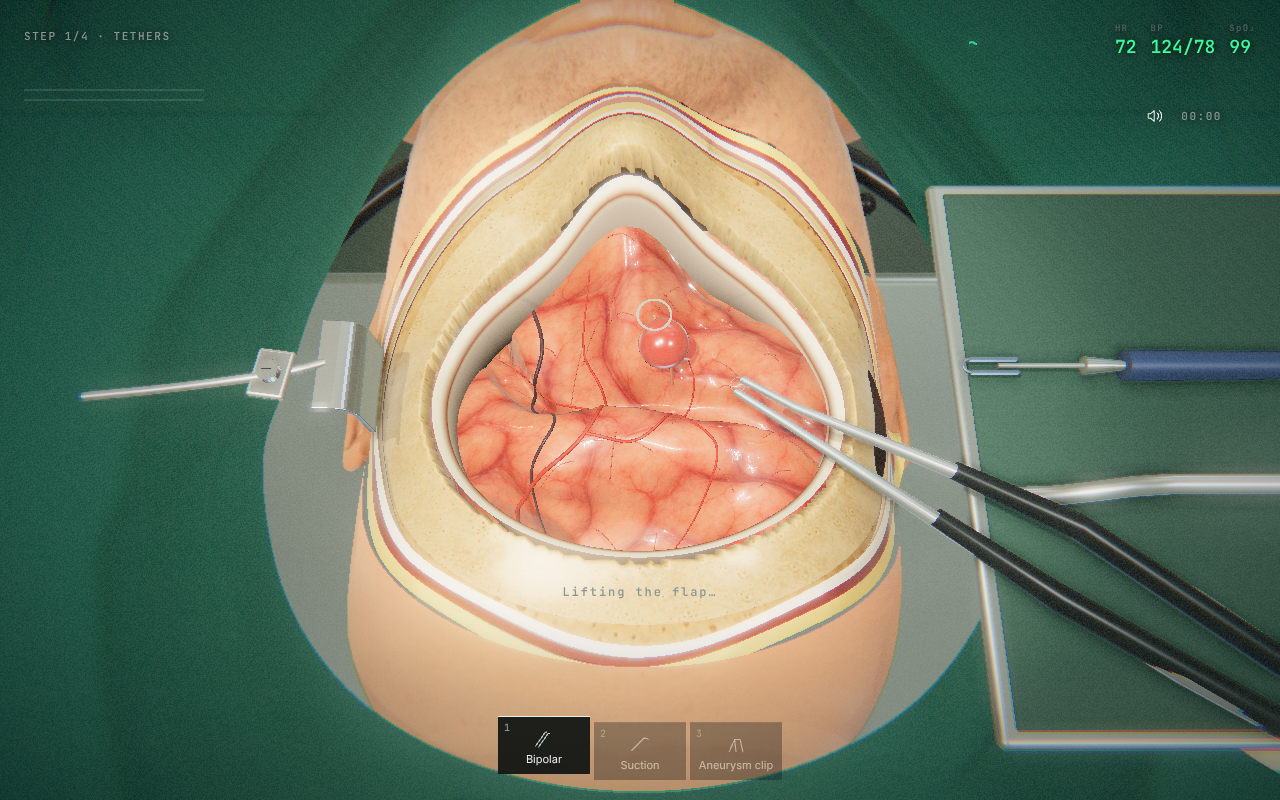
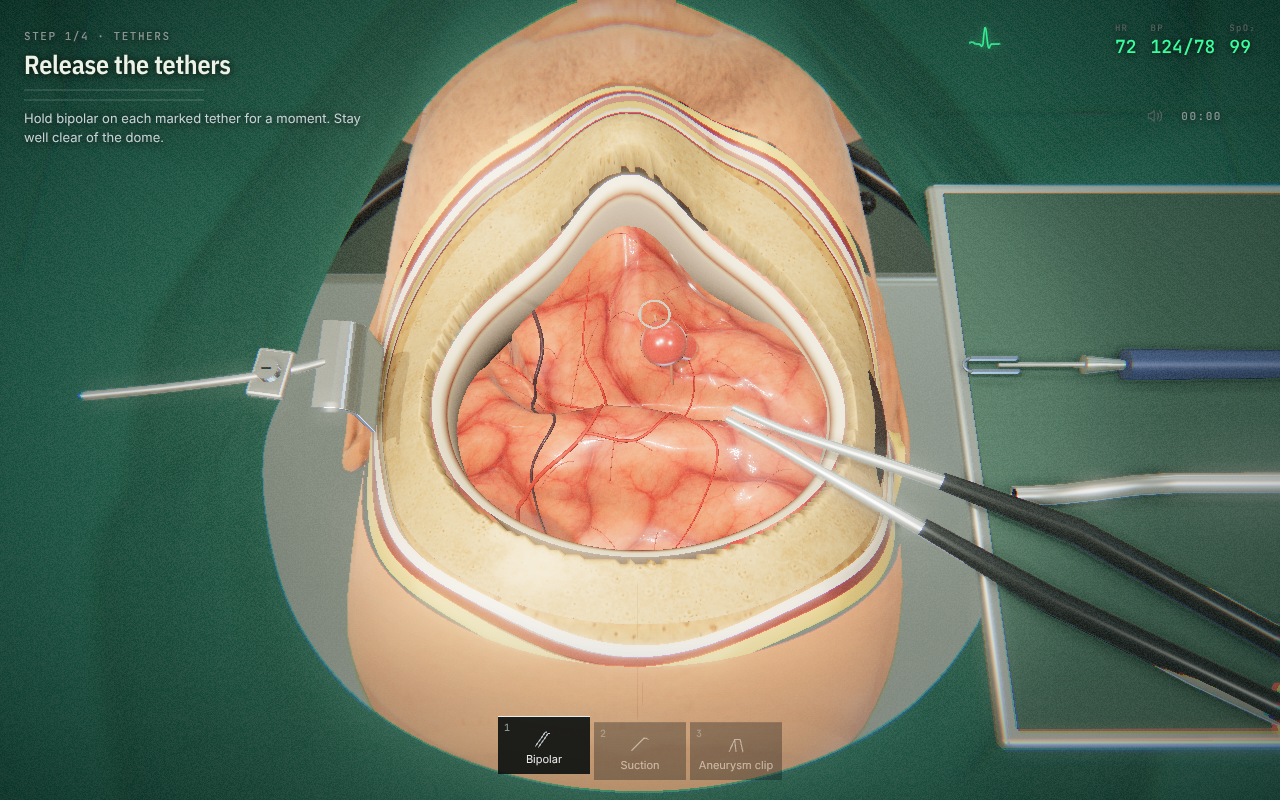
Surface-conforming blood pool, drier bone, larger drape, bigger skull grid
Claude-Session: https://claude.ai/code/session_01KH8wVLk59Yy76nRwxWbc5r

diff --git a/src/game/aneurysm.ts b/src/game/aneurysm.ts
@@ -101,20 +101,60 @@ export function buildAneurysm(scene: THREE.Scene, surface: Surface): AneurysmObj
   axisLine.computeLineDistances();
   axisLine.renderOrder = 24;
   group.add(axisLine);
+  // The pool follows the cortex: every vertex is lowered onto the surface so a ridge
+  // cannot cut a wedge out of it.
+  const RINGS = 9,
+    SEG = 44;
+  const poolGeo = new THREE.BufferGeometry();
+  poolGeo.setAttribute("position", new THREE.BufferAttribute(new Float32Array((RINGS * SEG + 1) * 3), 3));
+  const poolIndex: number[] = [];
+  for (let i = 0; i < SEG; i++) {
+    poolIndex.push(0, 1 + i, 1 + ((i + 1) % SEG));
+    for (let r = 0; r < RINGS - 1; r++) {
+      const a = 1 + r * SEG + i,
+        b = 1 + r * SEG + ((i + 1) % SEG),
+        c = a + SEG,
+        d = b + SEG;
+      poolIndex.push(a, c, b, b, c, d);
+    }
+  }
+  poolGeo.setIndex(poolIndex);
   const pool = new THREE.Mesh(
-    new THREE.CircleGeometry(1, 40),
+    poolGeo,
     new THREE.MeshPhysicalMaterial({
-      color: 0x3a0407,
-      roughness: 0.5,
-      clearcoat: 0,
-      envMapIntensity: 0.05,
+      color: 0x4a0508,
+      roughness: 0.3,
+      clearcoat: 0.5,
+      clearcoatRoughness: 0.25,
+      envMapIntensity: 0.12,
       transparent: true,
       opacity: 0.97,
       polygonOffset: true,
       polygonOffsetFactor: -4,
       depthWrite: false,
+      side: THREE.DoubleSide,
     }),
   );
+  pool.frustumCulled = false;
+  let poolKey = "";
+  function reshapePool(cx: number, cy: number, rx: number, ry: number) {
+    const key = `${cx.toFixed(3)}|${cy.toFixed(3)}|${rx.toFixed(2)}|${ry.toFixed(2)}`;
+    if (key === poolKey) return;
+    poolKey = key;
+    const pos = poolGeo.getAttribute("position") as THREE.BufferAttribute;
+    pos.setXYZ(0, cx, cy, surface(cx, cy) + 0.03);
+    for (let r = 0; r < RINGS; r++)
+      for (let i = 0; i < SEG; i++) {
+        const a = (i / SEG) * Math.PI * 2;
+        const edge = 1 + 0.12 * Math.sin(a * 3 + 0.7) + 0.07 * Math.sin(a * 5 + 2.1);
+        const f = ((r + 1) / RINGS) * edge;
+        const x = cx + Math.cos(a) * rx * f,
+          y = cy + Math.sin(a) * ry * f;
+        pos.setXYZ(1 + r * SEG + i, x, y, surface(x, y) + 0.03 + 0.012 * (1 - (r + 1) / RINGS));
+      }
+    pos.needsUpdate = true;
+    poolGeo.computeVertexNormals();
+  }
   pool.renderOrder = 6;
   group.add(pool);
   const placed = buildClipJaws();
@@ -179,8 +219,12 @@ export function buildAneurysm(scene: THREE.Scene, surface: Surface): AneurysmObj
       });
       pool.visible = a.phase === "ruptured";
       if (pool.visible) {
-        pool.position.set(a.dome[0], a.dome[1], surface(a.dome[0], a.dome[1]) + 0.045);
-        pool.scale.set(0.3 + state.bleeding * 0.45 + 0.012 * pulse, 0.25 + state.bleeding * 0.38, 1);
+        reshapePool(
+          a.dome[0],
+          a.dome[1],
+          0.2 + Math.round(state.bleeding * 40) / 40 * 0.32,
+          0.17 + Math.round(state.bleeding * 40) / 40 * 0.27,
+        );
       }
       placed.visible = a.phase === "clipped";
       if (placed.visible) {

diff --git a/src/game/scene.ts b/src/game/scene.ts
@@ -70,8 +70,8 @@ function ringGeometry(
     uv: number[] = [],
     indices: number[] = [],
     colors: number[] = [];
-  const radial = cloth ? 220 : wrap ? 16 : 5,
-    angular = 160;
+  const radial = cloth ? 330 : wrap ? 16 : 5,
+    angular = cloth ? 360 : 160;
   for (let j = 0; j <= radial; j++)
     for (let i = 0; i <= angular; i++) {
       const a = (i / angular) * Math.PI * 2,
@@ -166,15 +166,15 @@ export function buildField(
     color: 0x2f7468,
     side: THREE.DoubleSide,
   });
-  mesh(ringGeometry(2.9, 16, 0, true, false, (x, y) => skull.drape(x, y)), cloth, scene);
+  mesh(ringGeometry(2.9, 30, 0, true, false, (x, y) => skull.drape(x, y)), cloth, scene);
   const bone = new THREE.MeshPhysicalMaterial({
     color: 0xcdb995,
     map: boneTexture,
     bumpMap: boneTexture,
     bumpScale: 0.022,
     vertexColors: true,
-    roughness: 0.38,
-    clearcoat: 0.35,
+    roughness: 0.62,
+    clearcoat: 0.08,
     clearcoatRoughness: 0.4,
     side: THREE.DoubleSide,
   });

diff --git a/src/game/skull.ts b/src/game/skull.ts
@@ -17,11 +17,11 @@ export const WINDOW_RADIUS = 2.12;
 export class Skull {
   private grid: Float32Array | null = null;
   private drapeGrid: Float32Array | null = null;
-  private readonly x0 = -8;
-  private readonly y0 = -9;
+  private readonly x0 = -12;
+  private readonly y0 = -14;
   private readonly step = 0.1;
-  private readonly nx = 161;
-  private readonly ny = 181;
+  private readonly nx = 241;
+  private readonly ny = 281;
   /** Raw height of the head surface, or NaN where there is no head. */
   headTop(x: number, y: number): number {
     if (!this.grid) return NaN;

diff --git a/src/game/materials.ts b/src/game/materials.ts
@@ -30,8 +30,8 @@ export function tissueMaterial(texture: THREE.Texture) {
     bumpScale: 0.032,
     color: 0xc99484,
     roughness: 0.46,
-    clearcoat: 0.55,
-    clearcoatRoughness: 0.08,
+    clearcoat: 0.38,
+    clearcoatRoughness: 0.1,
     clearcoatNormalMap: wetNoise(),
     clearcoatNormalScale: new THREE.Vector2(0.9, 0.9),
     sheen: 0.1,

diff --git a/src/game/access.ts b/src/game/access.ts
@@ -61,8 +61,8 @@ export class BoneWindow {
         bumpMap: texture,
         bumpScale: 0.024,
         color: 0xcdb995,
-        roughness: 0.38,
-        clearcoat: 0.35,
+        roughness: 0.62,
+        clearcoat: 0.08,
         clearcoatRoughness: 0.4,
         vertexColors: true,
         side: THREE.DoubleSide,
